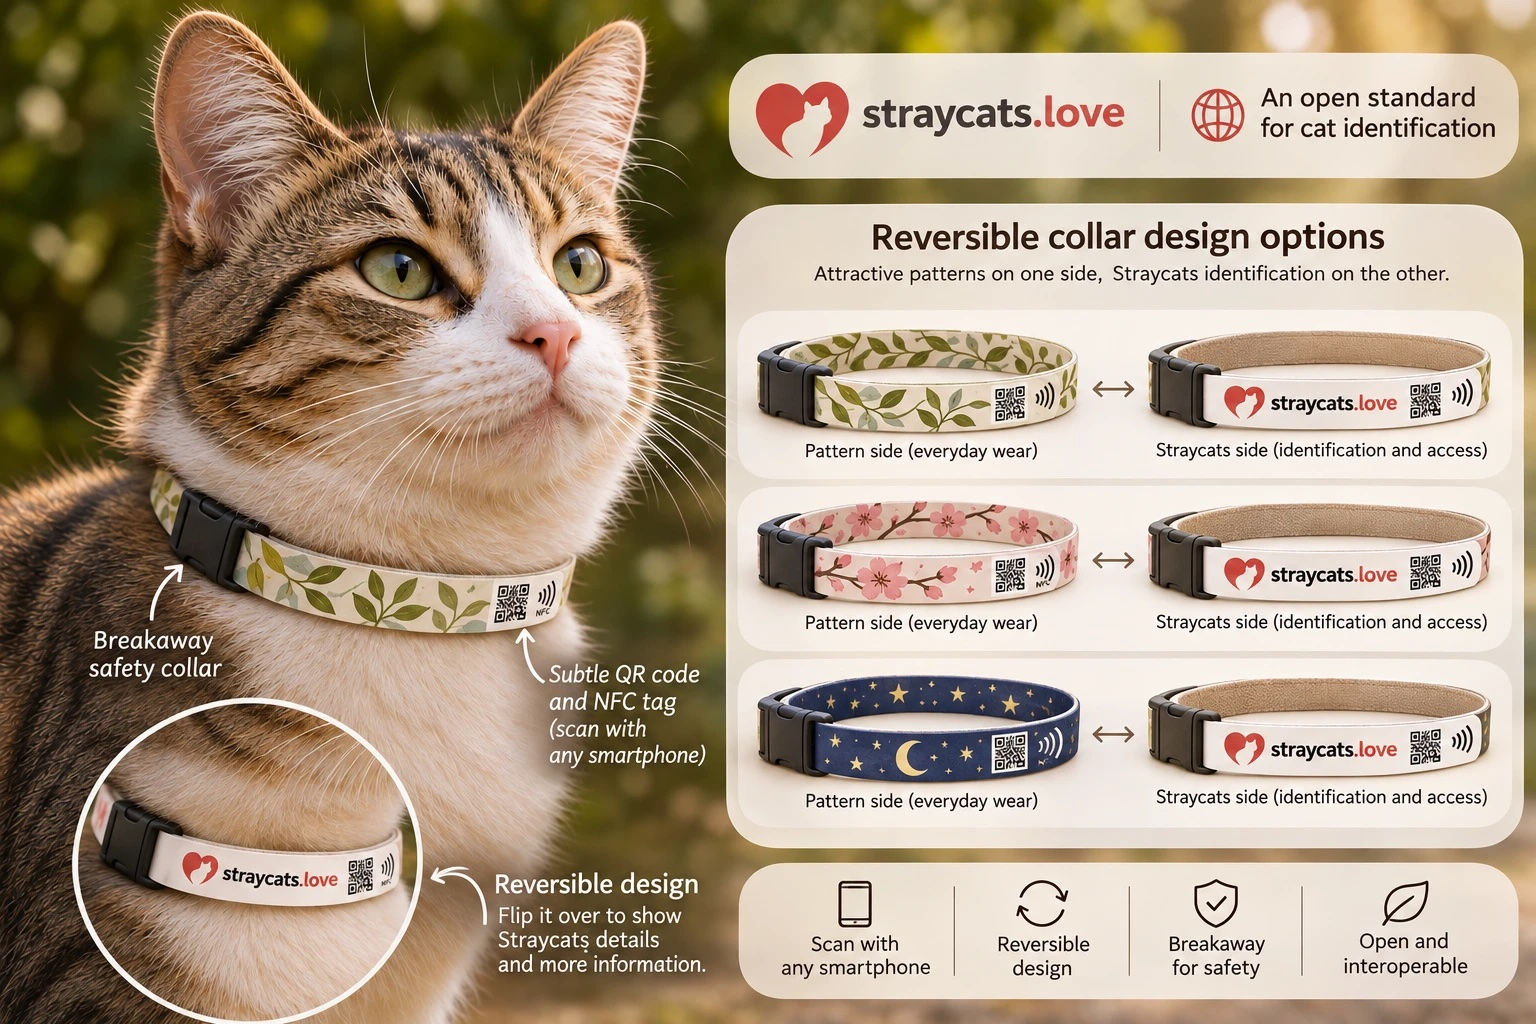
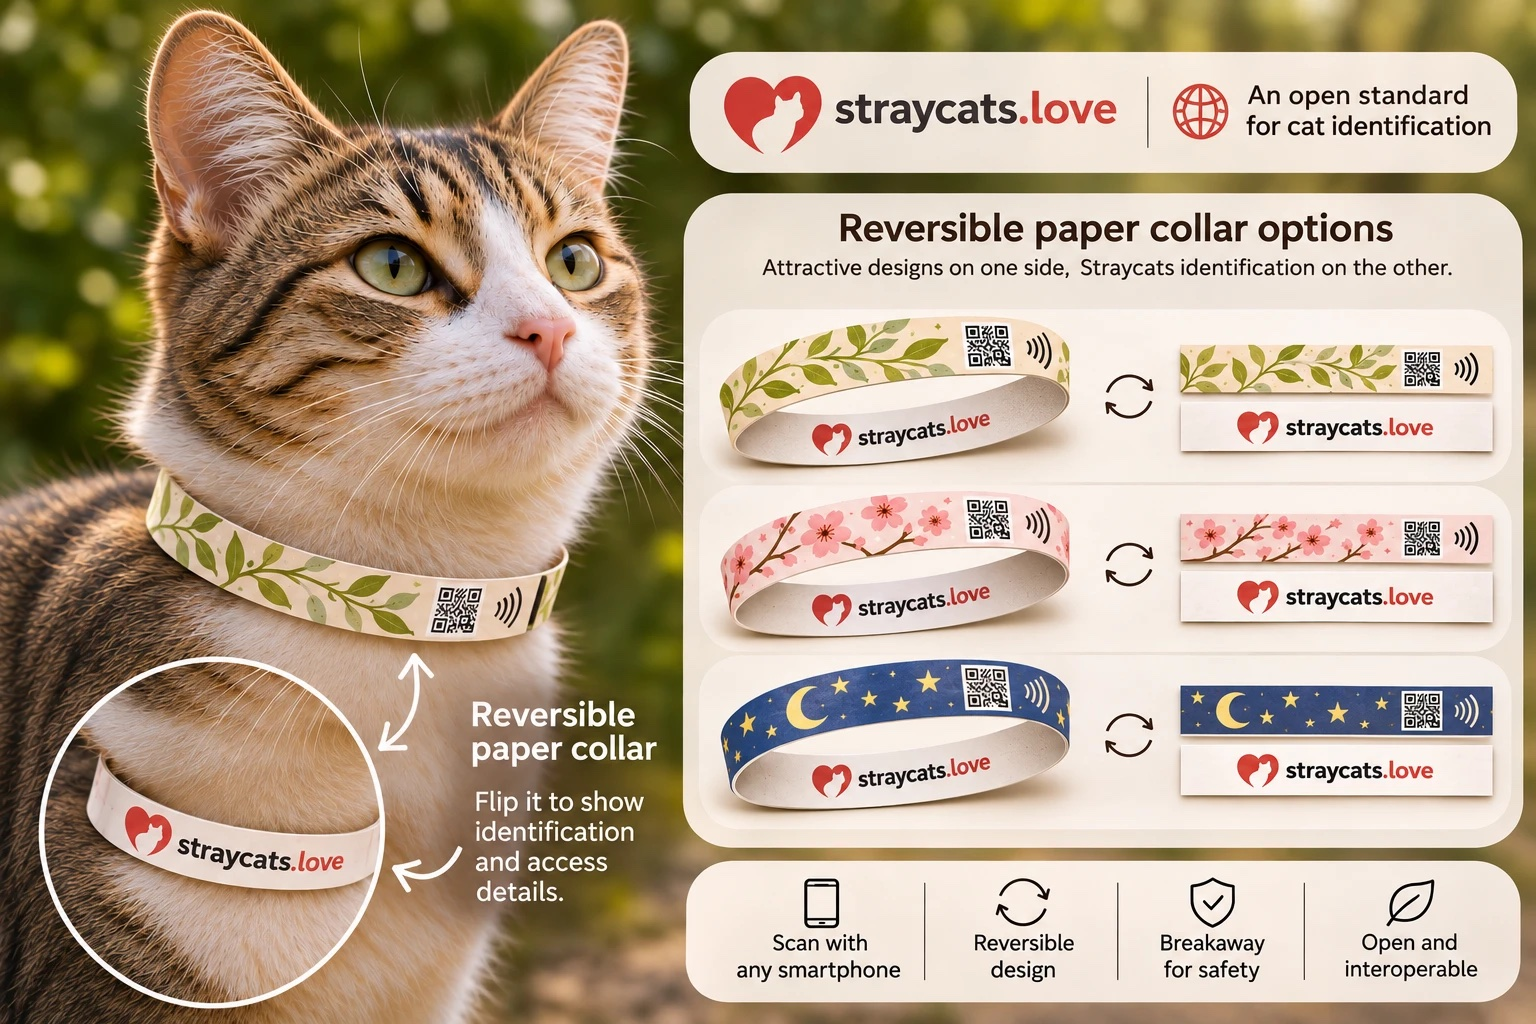
Use the reversible paper collar image as the open identity cover

diff --git a/content/ideas/open-cat-identity/index.md b/content/ideas/open-cat-identity/index.md
@@ -8,8 +8,8 @@ question: "If you found a cat wearing a collar like this, would you scan it, and
 updated: 2026-11-06
 cover:
   image: "cover.jpg"
-  alt: "A tabby-and-white cat looking up, wearing a leaf-patterned breakaway collar with a small QR code and NFC mark, beside a panel showing three reversible collar designs: leaves, cherry blossom and a starry night, each with a StrayCats identification side on the back"
-  caption: "Concept mockup, not a photo and not a real product. The reversible collars are one possible design."
+  alt: "A tabby-and-white cat looking up, wearing a leaf-patterned paper collar, beside three reversible paper collar designs (leaves, cherry blossom and a starry night), each with a pattern on one side and the StrayCats identification on the other"
+  caption: "Concept mockup, not a photo and not a real product: a reversible collar with a pattern for everyday wear on one side and the StrayCats identification on the other."
 ---
 
 *An idea for a global, open standard for cat identification.*
@@ -32,8 +32,6 @@ QR code.
 
 Anyone with a smartphone could scan the collar and access information about the cat without
 installing an app.
-
-{{< photo src="reversible-collar.jpg" alt="A tabby-and-white cat looking up, wearing a leaf-patterned paper collar with a small QR code and NFC mark. Beside it, three reversible paper collar designs (leaves, cherry blossom and a starry night), each with a pattern on one side and the StrayCats identification on the other" caption="Concept mockup, not a photo and not a real product: a reversible collar with a pattern for everyday wear on one side and the StrayCats identification on the other." >}}
 
 Depending on what caregivers choose to share, that information might include:
 
